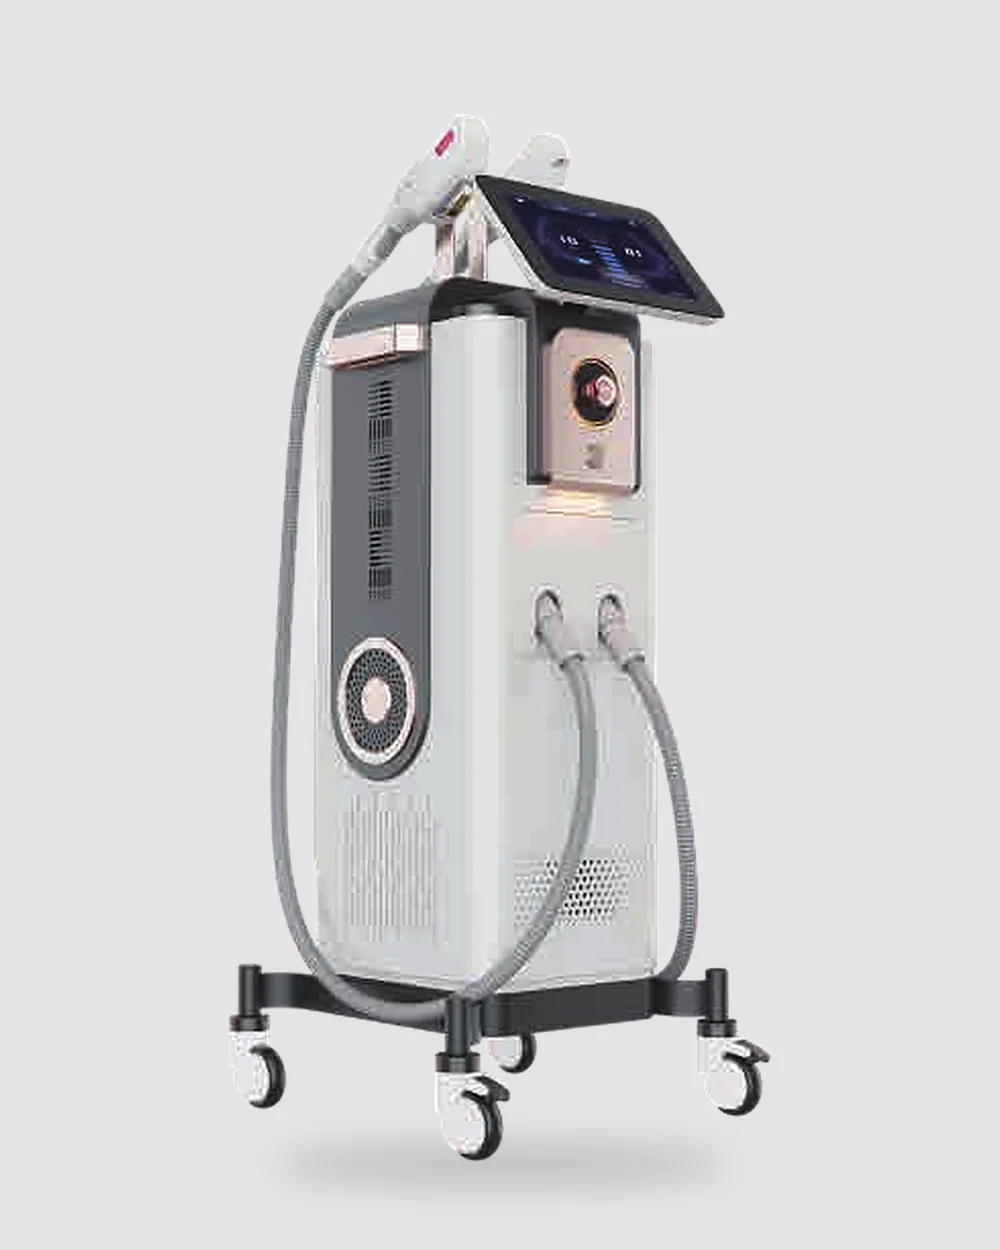
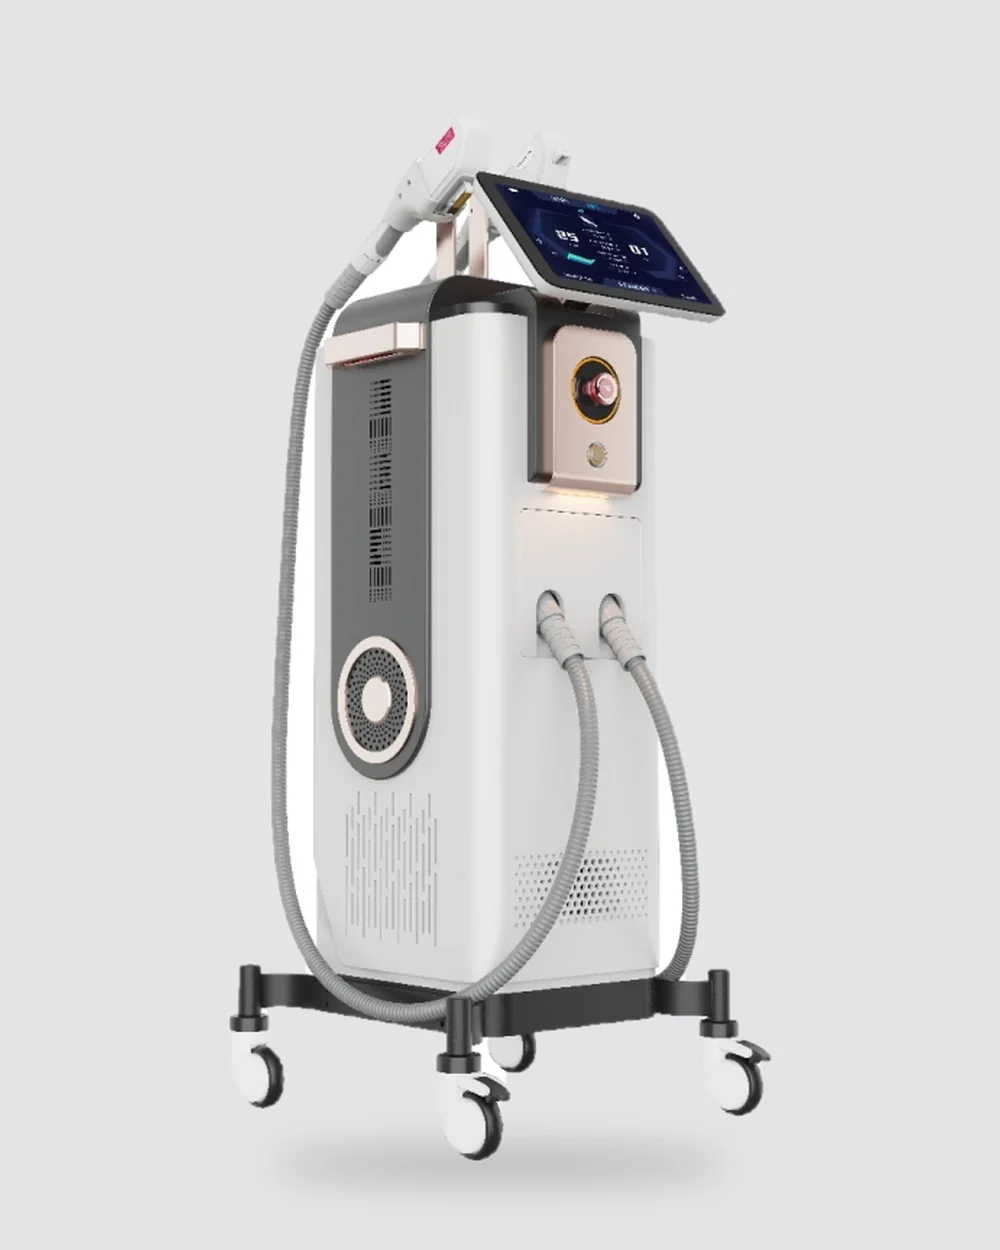
feat: fotos en alta de Spectrum DPL Plus y Picosecond 500 ps desde la web de SANHE
De los 13 equipos del catálogo, solo estos dos aparecen idénticos en
sanhebeauty.com (101 productos revisados con comparación de silueta y
revisión visual). Fotos del fabricante a 800–1200 px recortadas sobre el
fondo de estudio; el resto sigue con los recortes del PDF.

diff --git a/site/js/equipos.js b/site/js/equipos.js
@@ -27,7 +27,7 @@ window.EQUIPOS = {
     aplicadores: 'Cuatro puntas intercambiables: 12,5×14,5 mm, 13,5×28,5 mm, 13,5×38,5 mm y redonda de 8,25 mm.',
   },
   dpl: {
-    no: 'No. 02', name: 'Spectrum DPL Plus', cat: 'depilacion', img: 'img/eq-dpl.webp',
+    no: 'No. 02', name: 'Spectrum DPL Plus', cat: 'depilacion', img: 'img/eq-dpl.webp?v=2',
     tech: 'DPL · 420–1200 nm', techLong: 'Luz DPL · depilación + filtros de cuidado de la piel',
     desc: 'Plataforma DPL para depilación (560–950 nm) y cuidado de la piel con filtros (420–1200 nm), con lámpara importada de Alemania y técnica en movimiento.',
     ventajas: ['Adaptadores de spot de cambio rápido', 'Núcleo de luz importado de Alemania', 'Fuente de alimentación OPT', 'Varias longitudes de onda para todo tipo de pieles', 'Tecnología in-motion'],
@@ -54,7 +54,7 @@ window.EQUIPOS = {
     aplicadores: 'Piezas de mano de 650 nm (tinta verde) y 585 nm (tinta roja), colimada y celular.',
   },
   pico500: {
-    no: 'No. 04', name: 'Picosecond 500 ps', cat: 'laser', img: 'img/eq-pico500.webp',
+    no: 'No. 04', name: 'Picosecond 500 ps', cat: 'laser', img: 'img/eq-pico500.webp?v=2',
     tech: 'Picosegundo · 500 ps', techLong: 'Láser de picosegundos · 1064 / 532 nm · brazo coreano',
     desc: 'Láser de picosegundos con brazo de 7 articulaciones importado de Corea, para eliminación de tatuajes, cloasma (melasma) y tratamiento de «muñeca negra» (carbon peel).',
     ventajas: ['Pulso corto de 500 ps', 'Alta frecuencia: 1–10 Hz', 'Alta precisión: spot ajustable de 2 a 10 mm', 'Brazo de 7 articulaciones importado de Corea'],

diff --git a/site/index.html b/site/index.html
@@ -419,7 +419,7 @@
     </div>
   </dialog>
 
-  <script src="js/equipos.js?v=2" defer></script>
+  <script src="js/equipos.js?v=3" defer></script>
   <script src="js/main.js?v=7" defer></script>
 </body>
 </html>
